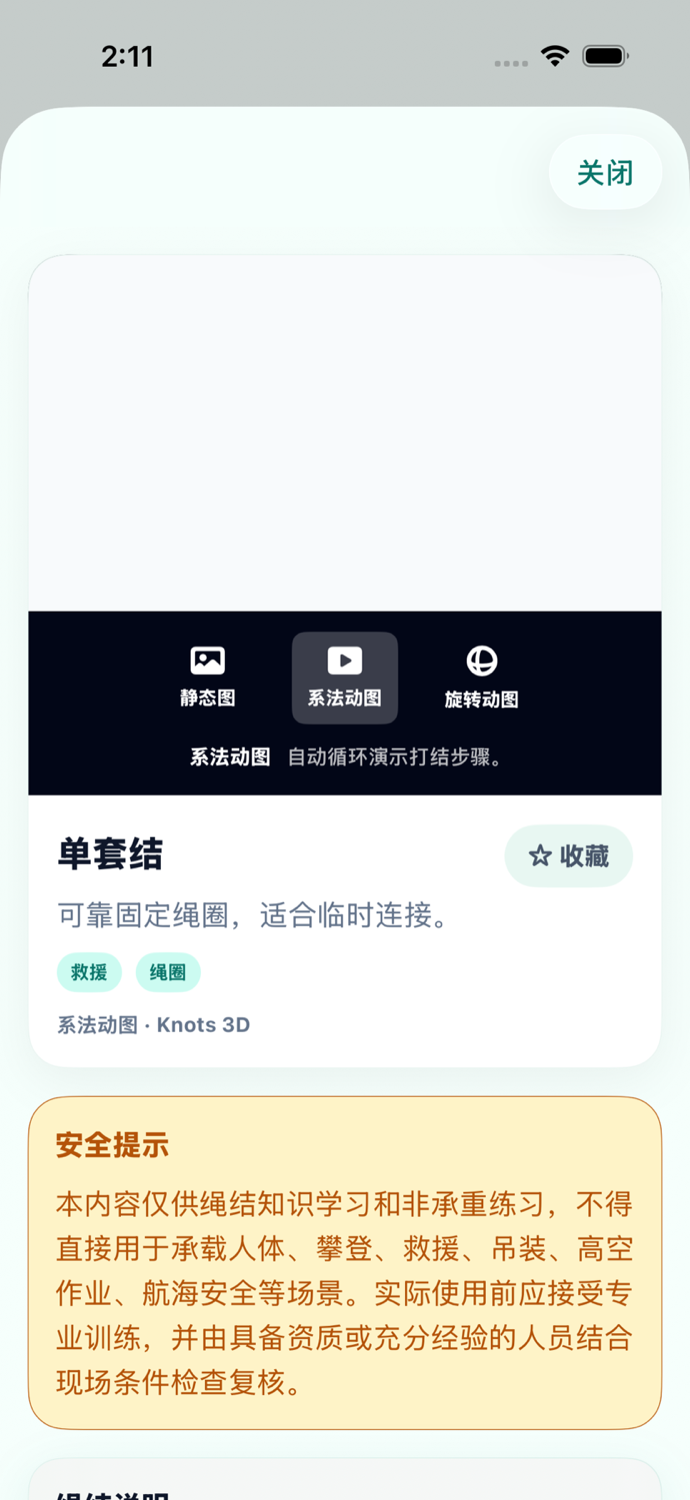
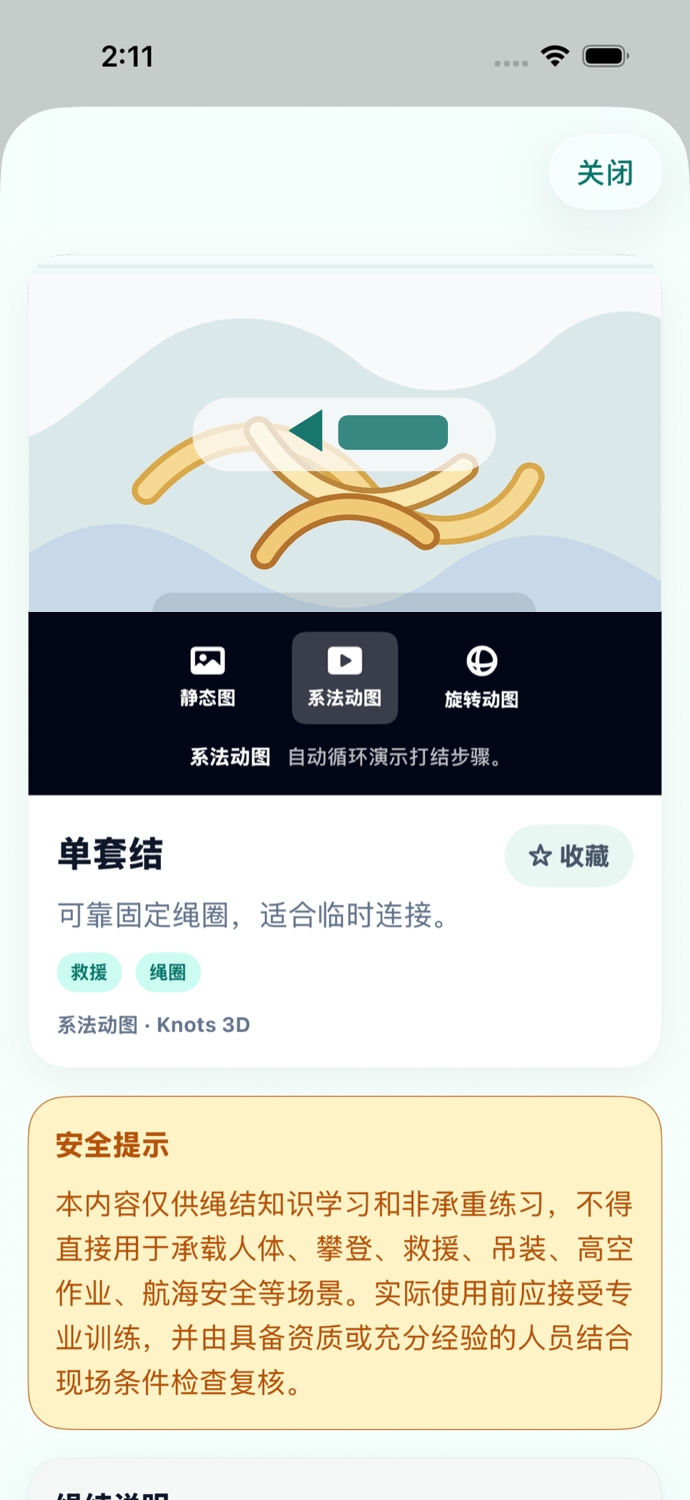
fix: restore iOS knot detail media

Changed region(s): [[0.0304, 0.184, 0.9739, 0.4293]]

diff --git a/tests/official-site.spec.ts b/tests/official-site.spec.ts
@@ -615,6 +615,36 @@ test('product intro page includes all core sections', async ({ page }) => {
   await expect(page.locator('#screenshots')).toHaveCount(0);
 });
 
+test('iOS knot detail screenshot includes visible knot media', async ({ page }) => {
+  await page.goto('/product/?lang=zh-CN');
+  const visibleKnotPixels = await page.evaluate(async () => {
+    const image = new Image();
+    image.src = new URL('/assets/screenshots/ios-knot-detail-signed-in-light.png', window.location.href).toString();
+    await image.decode();
+
+    const canvas = document.createElement('canvas');
+    canvas.width = image.naturalWidth;
+    canvas.height = image.naturalHeight;
+    const context = canvas.getContext('2d');
+    if (!context) throw new Error('Canvas context unavailable');
+
+    context.drawImage(image, 0, 0);
+    const sample = context.getImageData(80, 300, 530, 260).data;
+    let saturatedPixels = 0;
+    for (let index = 0; index < sample.length; index += 4) {
+      const red = sample[index];
+      const green = sample[index + 1];
+      const blue = sample[index + 2];
+      const max = Math.max(red, green, blue);
+      const min = Math.min(red, green, blue);
+      if (max - min > 40 && max < 250 && min < 245) saturatedPixels += 1;
+    }
+    return saturatedPixels;
+  });
+
+  expect(visibleKnotPixels).toBeGreaterThan(5000);
+});
+
 test('packing trips and skills sections keep copy on the left on desktop', async ({ page }) => {
   await page.setViewportSize({ width: 1440, height: 900 });
   await page.goto('/product/?lang=zh-CN');